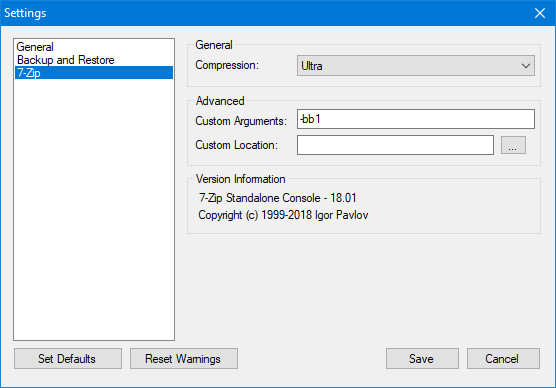
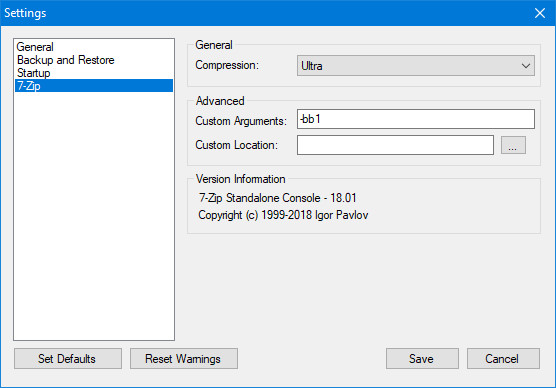
Updated manual.html Settings section to reflect new changes

Changed region(s): [[0.0, 0.1546, 0.3363, 0.2474]]

diff --git a/manual.html b/manual.html
@@ -142,26 +142,19 @@
             <p>Clicking Cancel or closing the window will cancel any changes made on this screen.</p>
             <p>When modifying the backup folder or any sync settings, be sure to read any warning messages carefully.</p>
             <h3>General</h3>
-            <img class="manual" src="images/manual/manual_15.jpg" width="556" height="388" alt="Settings" />
-            <h4>Start with Windows:</h4>
-            <p>This indicates if you want GBM to start automatically when Windows starts. This setting applies to the current user only. This setting is disabled in Linux.</p>
-            <p>This setting will not function correctly if GBM is flagged to "Run as Administrator".  If you'd like to start GBM with Windows as administrator you need to disable this setting and use the <b>Windows Task Scheduler</b>.  Please <a href="gbm_task_scheduler.html">follow these instructions</a> to setup a task for Game Backup Monitor.</p>
-            <h4>Start to system tray:</h4>
-            <p>This makes GBM minimize to the system tray immediately, instead of showing the main window when it starts. Recommended if you're using the Start with Windows setting. This setting is disabled in Linux.</p>
-            <h4>Start monitoring at launch:</h4>
-            <p>GBM will start detecting games immediately with this setting enabled, otherwise game detection has to be manually started each time you load GBM.</p>            
-            <h4>Backup GBM data files on launch:</h4>
-            <p>GBM will backup both local and remote data files (as gbm.s3db.launch.bak) each time the application starts.  Only one backup file is kept, the prior one will be overwritten.</p>
+            <img class="manual" src="images/manual/manual_15.jpg" width="556" height="388" alt="Settings" />            
             <h4>Enable time tracking:</h4>
             <p>GBM will record and display game session times when this is enabled. When it's disabled no time data is recorded or displayed. Toggling this setting has no effect on time data that's already been recorded.</p>
             <h4>Enable session tracking:</h4>
-            <p>GBM will record individual session data when this is enabled.  Toggling this setting has no effect on session data that's already been recorded.</p>
-            <h4>Ignore sessions shorter than X minutes:</h4>
-            <p>GBM can suppress backups if a session time is too short. This is useful to prevent unwanted backups just because you loaded a game for a few minutes. If session tracking is enabled, it will use this setting and ignore short sessions.</p>            
+            <p>GBM will record individual session data when this is enabled.  Toggling this setting has no effect on session data that's already been recorded.</p>            
             <h4>Choose Optional Fields:</h4>
             <p>Use this button to choose any extra data you'd like to keep in sync between computers.  Fields such as Game Path and Icon are not recommended because they may be different on each PC.</p>
+            <h4>Ignore sessions shorter than X minutes:</h4>
+            <p>GBM can suppress backups if a session time is too short. This is useful to prevent unwanted backups just because you loaded a game for a few minutes. If session tracking is enabled, it will use this setting and ignore short sessions.</p>
             <h4>Show detection notifications:</h4>
             <p>This will require GBM to show a standard Windows notification when a game is detected.</p>
+            <h4>Disable sync event messages</h4>
+            <p>This will prevent all sync related messages from being displayed in the log.</p>
             <h4>Autosave log when max length is exceeded</h4>
             <p>This will automatically save a copy of the session log each time it's automatically cleared.</p>            
             <h3>Backup and Restore</h3>
@@ -187,7 +180,18 @@
             <h4>Disable backup confirmation:</h4>
             <p>This will stop GBM from showing a backup confirmation after each game session.</p>
             <h4>Show overwrite warning:</h4>
-            <p>This will require GBM to show a confirmation before overwriting any backup file.</p>            
+            <p>This will require GBM to show a confirmation before overwriting any backup file.</p>
+            <h3>Startup</h3>        
+            <img class="manual" src="images/manual/manual_23.jpg" width="556" height="388" alt="Settings" />
+            <h4>Start with Windows:</h4>
+            <p>This indicates if you want GBM to start automatically when Windows starts. This setting applies to the current user only. This setting is disabled in Linux.</p>
+            <p>This setting will not function correctly if GBM is flagged to "Run as Administrator".  If you'd like to start GBM with Windows as administrator you need to disable this setting and use the <b>Windows Task Scheduler</b>.  Please <a href="gbm_task_scheduler.html">follow these instructions</a> to setup a task for Game Backup Monitor.</p>
+            <h4>Start to system tray:</h4>
+            <p>This makes GBM minimize to the system tray immediately, instead of showing the main window when it starts. Recommended if you're using the Start with Windows setting. This setting is disabled in Linux.</p>
+            <h4>Start monitoring at launch:</h4>
+            <p>GBM will start detecting games immediately with this setting enabled, otherwise game detection has to be manually started each time you load GBM.</p>            
+            <h4>Backup GBM data files on launch:</h4>
+            <p>GBM will backup both local and remote data files (as gbm.s3db.launch.bak) each time the application starts.  Only one backup file is kept, the prior one will be overwritten.</p>
             <h3>7-Zip</h3>
             <img class="manual" src="images/manual/manual_18.jpg" width="556" height="388" alt="Settings" />
             <h4>Compression:</h4>
